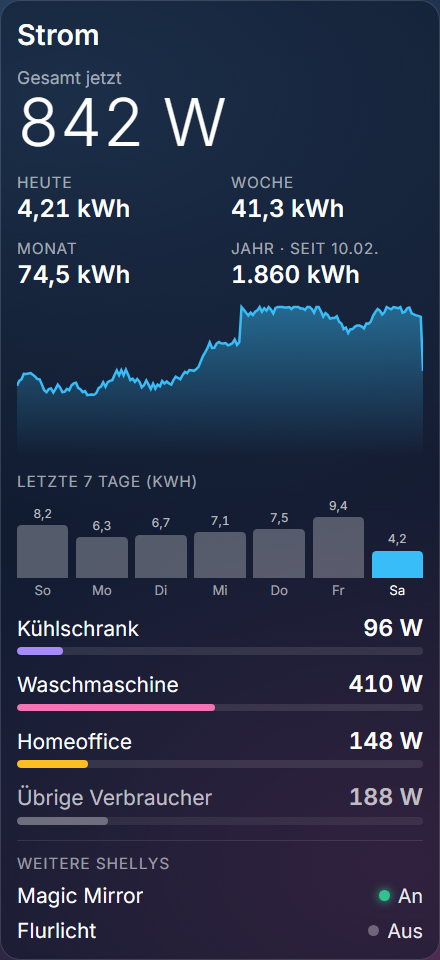
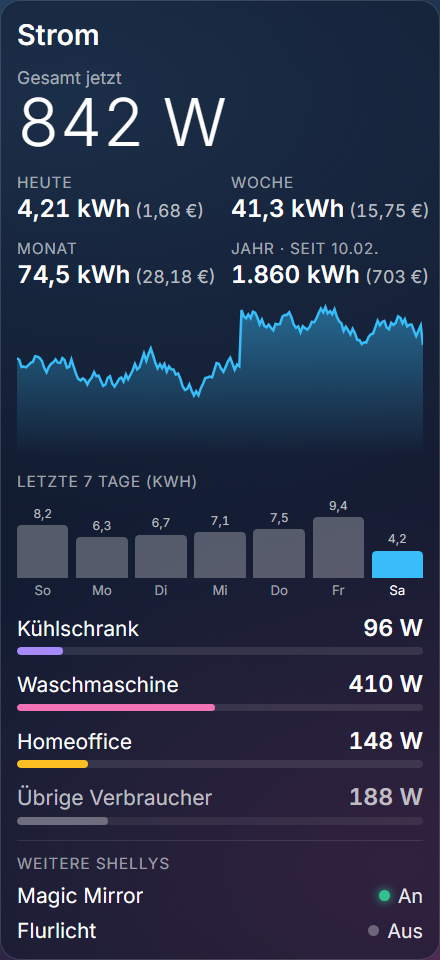
v0.3.1: Kosten in Klammern hinter Heute/Woche/Monat/Jahr (Arbeitspreis + Grundpreis)

diff --git a/src/index.tsx b/src/index.tsx
@@ -15,7 +15,10 @@ import {
 } from './power-logic';
 import {
   EMPTY_STORE,
+  costOf,
+  formatEuro,
   mergeStores,
+  periodStarts,
   parseSeed,
   periodsFrom,
   pruneStore,
@@ -177,14 +180,14 @@ function usePower(devices: DeviceSpec[], refreshMs: number, seedText: string): S
 
 const WEEKDAYS_DE = ['So', 'Mo', 'Di', 'Mi', 'Do', 'Fr', 'Sa'];
 
-function PeriodTile({ label, wh, price }: { label: string; wh: number; price: number }) {
+function PeriodTile({ label, wh, cost }: { label: string; wh: number; cost: number | null }) {
   return (
     <div style={{ display: 'flex', flexDirection: 'column', gap: '0.1em', minWidth: 0 }}>
       <span style={{ fontSize: '0.7em', opacity: 0.6, textTransform: 'uppercase', letterSpacing: '0.05em' }}>{label}</span>
-      <span style={{ fontSize: '1.1em', fontWeight: 600, fontVariantNumeric: 'tabular-nums' }}>{formatKwhDe(wh)}</span>
-      {price > 0 && (
-        <span style={{ fontSize: '0.7em', opacity: 0.6 }}>{`ca. ${((wh / 1000) * price).toFixed(2).replace('.', ',')} €`}</span>
-      )}
+      <span style={{ fontVariantNumeric: 'tabular-nums', whiteSpace: 'nowrap' }}>
+        <span style={{ fontSize: '1.1em', fontWeight: 600 }}>{formatKwhDe(wh)}</span>
+        {cost !== null && <span style={{ fontSize: '0.8em', opacity: 0.7 }}>{` (${formatEuro(cost)})`}</span>}
+      </span>
     </div>
   );
 }
@@ -270,9 +273,16 @@ export default function ShellyPowerPlugin({ config, style }: PluginComponentProp
   const title = typeof config.title === 'string' ? config.title.trim() : 'Strom';
   const seedText = typeof config.historySeed === 'string' ? config.historySeed : '';
   const state = usePower(devices, refreshMs, seedText);
-  const price = Math.max(0, Number(config.pricePerKwh) || 0);
+  const price = Math.max(0, Number(String(config.pricePerKwh ?? '').replace(',', '.')) || 0);
+  const baseFee = Math.max(0, Number(String(config.baseFeePerYear ?? '').replace(',', '.')) || 0);
   const showPeriods = config.showPeriods !== false;
   const periods = showPeriods ? state.periods : null;
+  const costFor = (wh: number, which: 'day' | 'week' | 'month' | 'year'): number | null => {
+    if (!periods || (price <= 0 && baseFee <= 0)) return null;
+    const nowDate = new Date();
+    const start = periodStarts(nowDate, periods)[which];
+    return costOf(wh, price, baseFee, nowDate.getTime() - start);
+  };
 
   const main = devices[0];
   const others = devices.slice(1);
@@ -318,10 +328,10 @@ export default function ShellyPowerPlugin({ config, style }: PluginComponentProp
                     : `Heute · seit ${new Date(periods.todaySince).toLocaleTimeString('de-DE', { hour: '2-digit', minute: '2-digit' })}`
                 }
                 wh={periods.day}
-                price={price}
+                cost={costFor(periods.day, 'day')}
               />
-              <PeriodTile label="Woche" wh={periods.week} price={price} />
-              <PeriodTile label="Monat" wh={periods.month} price={price} />
+              <PeriodTile label="Woche" wh={periods.week} cost={costFor(periods.week, 'week')} />
+              <PeriodTile label="Monat" wh={periods.month} cost={costFor(periods.month, 'month')} />
               <PeriodTile
                 label={
                   periods.dataSince === null
@@ -329,7 +339,7 @@ export default function ShellyPowerPlugin({ config, style }: PluginComponentProp
                     : `Jahr · seit ${periods.dataSince.toLocaleDateString('de-DE', { day: '2-digit', month: '2-digit' })}`
                 }
                 wh={periods.year}
-                price={price}
+                cost={costFor(periods.year, 'year')}
               />
             </div>
           )}

diff --git a/src/energy-days.ts b/src/energy-days.ts
@@ -162,3 +162,43 @@ export function pruneStore(store: DayStore, now: Date): DayStore {
     Object.fromEntries(Object.entries(rec).filter(([k]) => k >= cutoff)) as Record<string, T>;
   return { counters: keep(store.counters), days: keep(store.days) };
 }
+
+export interface PeriodStarts {
+  day: number;
+  week: number;
+  month: number;
+  year: number;
+}
+
+/** Beginn der Zeiträume in ms — nie vor dem ersten Messwert, damit anteilige
+ *  Grundgebühren nur für den Zeitraum berechnet werden, den es auch gibt. */
+export function periodStarts(now: Date, p: Periods): PeriodStarts {
+  const midnight = new Date(now.getFullYear(), now.getMonth(), now.getDate());
+  const dow = (now.getDay() + 6) % 7;
+  const monday = addDays(midnight, -dow);
+  const firstOfMonth = new Date(now.getFullYear(), now.getMonth(), 1);
+  const firstOfYear = new Date(now.getFullYear(), 0, 1);
+  const earliest = Math.max(
+    p.dataSince ? p.dataSince.getTime() : firstOfYear.getTime(),
+    firstOfYear.getTime(),
+  );
+  const clamp = (t: number) => Math.min(now.getTime(), Math.max(t, earliest));
+  return {
+    day: Math.min(now.getTime(), p.todaySince ?? midnight.getTime()),
+    week: clamp(monday.getTime()),
+    month: clamp(firstOfMonth.getTime()),
+    year: clamp(firstOfYear.getTime()),
+  };
+}
+
+/** Kosten eines Zeitraums: Arbeitspreis mal Verbrauch plus anteiliger Grundpreis. */
+export function costOf(wh: number, pricePerKwh: number, baseFeePerYear: number, elapsedMs: number): number {
+  return (wh / 1000) * pricePerKwh + (baseFeePerYear * Math.max(0, elapsedMs)) / (365 * 86400000);
+}
+
+/** "1,37 €" bzw. ab 100 € ohne Nachkommastellen ("856 €"). */
+export function formatEuro(amount: number): string {
+  const v = Math.max(0, amount);
+  const text = v >= 100 ? Math.round(v).toString() : v.toFixed(2).replace('.', ',');
+  return `${text.replace(/\B(?=(\d{3})+(?!\d))/g, '.')} €`;
+}

diff --git a/src/energy-days.test.ts b/src/energy-days.test.ts
@@ -87,3 +87,29 @@ describe('parseSeed/mergeStores', () => {
     expect(mergeStores(own, seed).counters['2026-10-14'].wh).toBe(10050);
   });
 });
+
+import { costOf, formatEuro, periodStarts } from './energy-days';
+
+describe('Kosten', () => {
+  it('Arbeitspreis plus anteiliger Grundpreis', () => {
+    // 10 kWh * 0,30 € + 36,5 € Jahresgrundpreis für 10 Tage = 3,00 + 1,00
+    expect(costOf(10000, 0.3, 36.5, 10 * 86400000)).toBeCloseTo(4.0, 5);
+    expect(costOf(1000, 0, 0, 1000)).toBe(0);
+  });
+
+  it('Euro-Format deutsch', () => {
+    expect(formatEuro(1.374)).toBe('1,37 €');
+    expect(formatEuro(856.4)).toBe('856 €');
+    expect(formatEuro(1234.5)).toBe('1.235 €');
+  });
+
+  it('Zeitraumbeginn nie vor dem ersten Messwert', () => {
+    const now = new Date(2026, 9, 14, 12, 0);
+    const first = new Date(2026, 9, 13, 0, 0);
+    const starts = periodStarts(now, {
+      day: 0, week: 0, month: 0, year: 0, last7: [], todaySince: null, dataSince: first,
+    });
+    expect(starts.week).toBe(first.getTime()); // Montag war der 12.10. - Daten erst ab 13.10.
+    expect(starts.day).toBe(new Date(2026, 9, 14).getTime());
+  });
+});

diff --git a/README.md b/README.md
@@ -1,6 +1,6 @@
 # Stromverbrauch (Shelly) · Power Consumption (Shelly)
 
-**[Deutsch](#deutsch) · [English](#english)** · Plugin für / for [Home Screens](https://github.com/home-screens/home-screens) · v0.3.0
+**[Deutsch](#deutsch) · [English](#english)** · Plugin für / for [Home Screens](https://github.com/home-screens/home-screens) · v0.3.1
 
 <p align="center"><img src="docs/screenshot.png" alt="Power Consumption (Shelly)" width="420"></p>
 
@@ -56,7 +56,8 @@ Flurlicht | 192.168.1.25
 | Geräte | Eine Zeile je Gerät: `Name | IP-Adresse | Kanal`. Der Kanal ist nur bei Geräten mit mehreren Messkanälen nötig (z. B. Shelly EM). **Die erste Zeile ist der Gesamtverbrauch**, alle weiteren werden darunter gezeigt. Geräte ohne Messung landen automatisch unter „Weitere Shellys“. |
 | Verbrauch heute/Woche/Monat/Jahr zeigen | An: Verbrauch je Zeitraum und Balken der letzten 7 Tage (aus dem Zählerstand des ersten Geräts). |
 | Importierter Verlauf (optional) | Für Fortgeschrittene: Verbrauch früherer Tage als JSON, damit Woche/Monat/Jahr sofort stimmen (siehe unten). |
-| Strompreis (€ je kWh) | Optional, z. B. `0.32`. Zeigt unter den Werten eine grobe Kostenschätzung („ca. 12,40 €“). 0 = keine Kosten. |
+| Arbeitspreis (€ je kWh, brutto) | Optional, laut deiner Stromrechnung, z. B. `0.3244`. Zeigt hinter den kWh-Werten die Kosten in Klammern, z. B. „41,3 kWh (13,40 €)“. 0 = keine Kosten. |
+| Grundpreis (€ je Jahr, optional) | Jährlicher Grundpreis laut Rechnung, z. B. `149.70`. Wird anteilig auf Heute/Woche/Monat/Jahr umgelegt. 0 = nicht einrechnen. |
 | Aktualisierung (ms) | 5 000–60 000, Standard 10 000 (10 Sekunden). |
 
 ### Aktualisieren
@@ -66,6 +67,7 @@ Wiederhole einfach die Installation mit **demselben Link** (Schritte 2–4). Er 
 ### Hilfe bei Problemen
 
 - **Zeigt „–“ statt eines Werts?** Das Gerät ist von deinem Home-Screens-Server aus nicht erreichbar (falsche IP, Gerät offline, anderes Netz/VLAN) oder hat ein Passwort gesetzt. **Geräte mit Passwort werden nicht unterstützt.**
+- **Kosten stimmen nicht?** Trage den **Arbeitspreis in ct/kWh brutto** und den **Grundpreis in €/Jahr brutto** aus deiner Stromrechnung ein (Cent durch 100 teilen: 32,44 ct = `0.3244`). Das Plugin rechnet ohne Zähler- und Abschlagsgebühren und ohne Boni; es ist eine Schätzung, keine Rechnung.
 - **Woche/Monat/Jahr sind zu klein?** Das Plugin rechnet ab dem Tag der Einrichtung mit dem Zählerstand deines ersten Geräts (Name | IP | Kanal). Die Woche ist nach einer Woche vollständig, der Monat nach einem Monat; „Jahr · seit 14.10.“ zeigt, ab wann gerechnet wird. Der Browser des Displays merkt sich die Tageswerte (`localStorage`); wird sein Speicher gelöscht, beginnt die Rechnung neu.
 - **Früheren Verlauf importieren (optional):** Ein **Shelly EM (Gen1)** speichert seinen Verbrauch selbst (Datei `http://<IP>/emeter/<Kanal>/em_data.csv`, 10-Minuten-Werte seit Inbetriebnahme). Aus ihr lassen sich die Tagessummen berechnen und im Feld „Importierter Verlauf“ als JSON eintragen. **Achtung:** Der Download ist sehr langsam (mehrere Minuten, ca. 1 MB) und blockiert das Gerät währenddessen; ruf die Datei deshalb nicht regelmäßig und nicht mehrfach gleichzeitig ab. Ein fertiges Skript liegt in [`tools/make-seed.cjs`](tools/make-seed.cjs) (`node tools/make-seed.cjs em_data.csv`).
 - **Jahreswert „seit 14.10.“?** So sieht man, ab wann das Plugin Daten hat; zum Jahresanfang beginnt der Wert bei null.
@@ -131,7 +133,8 @@ Hall light | 192.168.1.25
 | Devices | One line per device: `Name | IP address | channel`. The channel is only needed for devices with several metering channels (e.g. Shelly EM). **The first line is the total consumption**, the others are shown below. Devices without metering automatically go under "More Shellys". |
 | Show consumption today/week/month/year | On: consumption per period and bars for the last 7 days (from the first device's energy counter). |
 | Imported history (optional) | Advanced: consumption of earlier days as JSON so that week/month/year are right immediately (see below). |
-| Electricity price (€ per kWh) | Optional, e.g. `0.32`. Shows a rough cost estimate under the values ("approx. €12.40"). 0 = no cost. |
+| Energy price (€ per kWh, gross) | Optional, from your electricity bill, e.g. `0.3244`. Shows the cost in brackets after the kWh values, e.g. "41.3 kWh (€13.40)" (shown as "13,40 €"). 0 = no cost. |
+| Base price (€ per year, optional) | Annual base price from your bill, e.g. `149.70`. Distributed pro rata over today/week/month/year. 0 = not included. |
 | Refresh (ms) | 5,000–60,000, default 10,000 (10 seconds). |
 
 ### Updating
@@ -141,6 +144,7 @@ Simply repeat the installation with the **same link** (steps 2–4). It always p
 ### Troubleshooting
 
 - **Shows "–" instead of a value?** The device is not reachable from your Home Screens server (wrong IP, device offline, other network/VLAN) or has a password set. **Devices with a password are not supported.**
+- **Costs look wrong?** Enter the **energy price in ct/kWh gross** and the **base price in €/year gross** from your electricity bill (divide cents by 100: 32.44 ct = `0.3244`). The plugin calculates without meter fees, instalments or bonuses; it is an estimate, not a bill.
 - **Week/month/year too small?** The plugin calculates from the day of setup using the energy counter of your first device (Name | IP | channel). The week is complete after a week, the month after a month; "Year · since 14.10." shows where the calculation starts. The display's browser remembers the daily values (`localStorage`); if its storage is cleared the calculation starts again.
 - **Import an earlier history (optional):** A **Shelly EM (Gen1)** stores its consumption itself (file `http://<IP>/emeter/<channel>/em_data.csv`, 10-minute values since commissioning). Daily totals can be calculated from it and entered as JSON in the "Imported history" field. **Careful:** the download is very slow (several minutes, ~1 MB) and blocks the device meanwhile; do not fetch it regularly or several times at once. A ready-made script is in [`tools/make-seed.cjs`](tools/make-seed.cjs) (`node tools/make-seed.cjs em_data.csv`).
 - **Yearly value says "since 14.10."?** That shows from when the plugin has data; at the start of a year the value begins at zero.
@@ -156,7 +160,7 @@ Your Home Screens server queries your Shellys on the local network (requests go 
 
 ## Technik / Technical notes
 
-- **ID / Manifest:** `shelly-power` – Version 0.3.0, License MIT
+- **ID / Manifest:** `shelly-power` – Version 0.3.1, License MIT
 - Bauen / Build: `npm install && npm run build && npm test`
 - Release-Archiv für die Installation / Release archive used for installation: `shelly-power.tar.gz` (enthält / contains `shelly-power/manifest.json` + `shelly-power/dist/bundle.js`)
 - Teil eines privaten Heim-Projekts (Magic-Mirror-Ersatz); als eigenes öffentliches Repo geführt, damit die Installations-URL ohne Anmeldung erreichbar ist / Part of a private home project (Magic Mirror replacement); kept as its own public repo so the install URL works without login.
